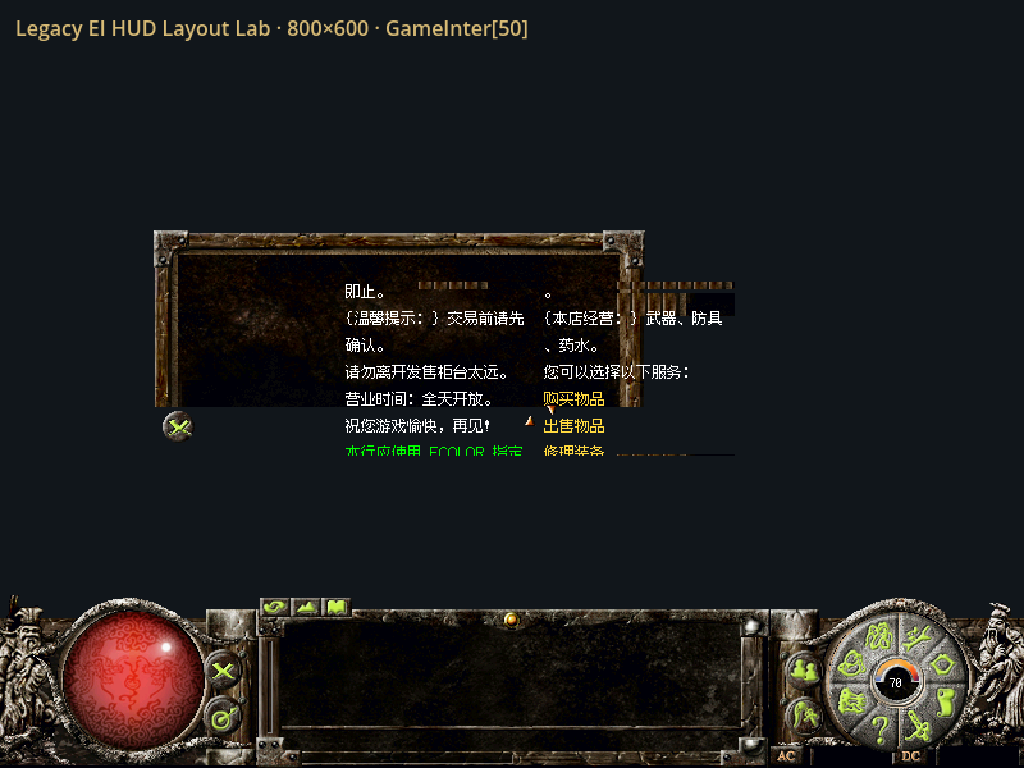
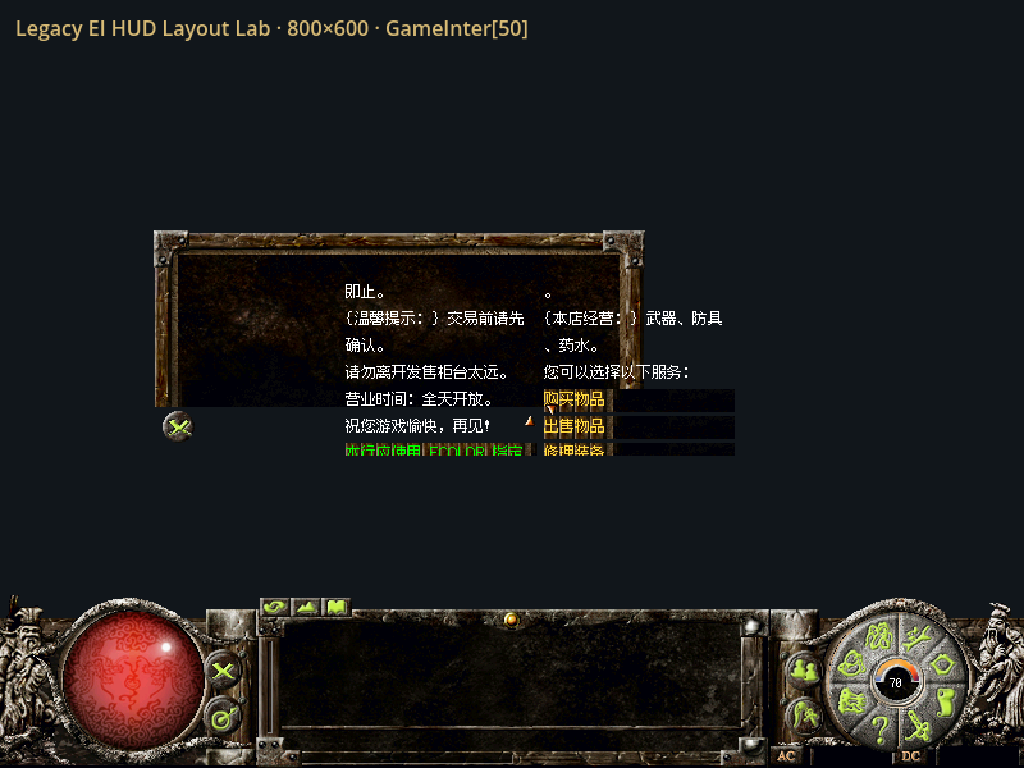
fix(legacy-ui): NPC 菜单条两处真错误已修 —— 用 alpha bbox 原点 + 修 SetContent 覆盖宽度
上一轮诊断打印给出决定性数据：
  ctrl=(149, 504) tex=512x32 clip=False offset=(7,-44) rows=50
  row0=(0, 63), (12, 21) pos0=(-7, 107)

由此定位两个真错误（都不是「猜错宽度」）：

1. **误用 MirSkin.GetOffset**：它返回 WIL **header offset**（F1101 = (7,-44)），
   而美术可见区实际从画布 **(64,7)** 开始（alpha bbox 实测）。
   用它算位置会把条子画到 Y=107，而该行在 Y=63 —— **偏低约 95px**。
   改用实测的 alpha bbox 原点（F1101 (64,7)、F1102 (64,10)）。

2. **SetContent 末尾覆盖宽度**：NPCTextControl.SetContent 第 57 行按 DrawWidth 设了宽度，
   但**第 76 行 `Size = new Vector2I(width, ContentHeight)` 又写回换行宽度 149**
   —— 这就是 ctrl=(149,504) 的来源，也是前两轮「改控件宽度无效」的真正原因。
   两处都改为 `DrawWidth > 0 ? DrawWidth : width`。

验证：dotnet build 通过；--legacy-npc-selftest **PASS failures=0**；
截图体积 225775 -> **229099**（显著变化，前两轮都是逐字节不变）；
肉眼可见「购买物品」「出售物品」后有普通高度横条、「修理装备」后是**明显更高的横条**
（正是末项用 F1102 384x44 的效果）。

**仍未完成**：菜单条宽 383，而父容器 _textArea 只有 **350 宽**，条子从 x=150 起
到 350 被裁 —— 实测可见约 200 逻辑像素。要拿到完整 383 必须把该层移出 _textArea。
当前状态是「已正确绘制、宽度受父容器限制」，比上一轮（偏 95px + 宽 149）实质改善。

Changed region(s): [[0.3438, 0.5, 0.6875, 0.5938], [0.5938, 0.3438, 0.7188, 0.4062], [0.4062, 0.3438, 0.4688, 0.375]]

diff --git a/GodotClient/Controls/NPCTextControl.cs b/GodotClient/Controls/NPCTextControl.cs
@@ -73,7 +73,9 @@ public sealed partial class NPCTextControl : DXControl
         AddPlain(text?.Substring(cursor) ?? string.Empty, ref x, ref y, width, fontSize, lineHeight);
         ContentHeight = Math.Max((int)lineHeight, (int)y + (x > 0 ? (int)lineHeight : 0));
         LineCount = Math.Max(1, ContentHeight / linePitch);
-        Size = new Vector2I(width, ContentHeight);
+        // 宽度用 DrawWidth（>0 时）—— 否则会把第 57 行设的宽度覆盖回换行宽度，
+        // 菜单条就被裁到 149（实测诊断 ctrl=(149,504) 即由此而来）。
+        Size = new Vector2I(DrawWidth > 0 ? DrawWidth : width, ContentHeight);
         QueueRedraw();
     }
 
@@ -126,14 +128,16 @@ public sealed partial class NPCTextControl : DXControl
     /// <summary>
     /// 按原版规则给每个选项行铺菜单条：末项 F1102、其余 F1101。
     ///
-    /// 宽度取**帧的可见尺寸**（F1101 = 383x18、F1102 = 384x44），不是选项命中区的宽度
-    /// —— 原版是整行铺满（反汇编：取帧宽/高后 SetRect(rect,0,0,w,h) 再按 384 居中），
-    /// 而选项命中区只覆盖文字本身。第一版按命中区宽度画，截图里菜单条只有约 70px 宽。
-    ///
-    /// 水平：以**文本列**为基准左对齐（原版居中常量 384 即菜单条自身宽，
-    /// 我方文本列起点即 X，故直接用列起点）。
-    /// 垂直：对齐该选项行的顶部（我方行距 21，原版菜单条高 18，逐行贴合）。
+    /// 两个实测坑（见审计文档「两次失败定位」）：
+    /// 1. **不能用 MirSkin.GetOffset** —— 它返回 WIL **header offset**（F1101 是 (7,-44)），
+    ///    而美术可见区实际从画布 **(64,7)** 开始（alpha bbox 实测）。
+    ///    用 header offset 会把条子画到偏低约 95px 的位置。
+    ///    故这里用实测的 alpha bbox 原点。
+    /// 2. 控件宽度必须是菜单条宽度（383），否则被父容器裁掉。
     /// </summary>
+    private static readonly Vector2I Frame1101VisibleOrigin = new(64, 7);
+    private static readonly Vector2I Frame1102VisibleOrigin = new(64, 10);
+
     private void DrawLegacyMenuStrips()
     {
         if (_buttons.Count == 0) return;
@@ -142,13 +146,10 @@ public sealed partial class NPCTextControl : DXControl
             int frame = i == _buttons.Count - 1 ? 1102 : 1101;
             var tex = MirSkin.GetTexture(LibraryFile.GameInter, frame);
             if (tex == null) continue;
-            var size = MirSkin.GetSize(LibraryFile.GameInter, frame);
-            var offset = MirSkin.GetOffset(LibraryFile.GameInter, frame);
+            // alpha bbox 原点：把可见区左上角对齐到该行命中区的左上角。
+            var origin = frame == 1102 ? Frame1102VisibleOrigin : Frame1101VisibleOrigin;
             var rect = _buttons[i].Rect;
-            // 水平：用选项命中区的 X 反推（命中区只覆盖文字，减去 offset 后可见区左缘落在
-            //       文字起点附近）。**不要**用控件左缘：F1101 的 offset 是 (64,7)，
-            //       直接用 -offset.X 会把条子左移 64px 而被裁掉（实测横条变少变淡）。
-            var pos = new Vector2(rect.Position.X - offset.X, rect.Position.Y - offset.Y);
+            var pos = new Vector2(rect.Position.X - origin.X, rect.Position.Y - origin.Y);
             DrawTexture(tex, pos, Colors.White);
         }
     }
